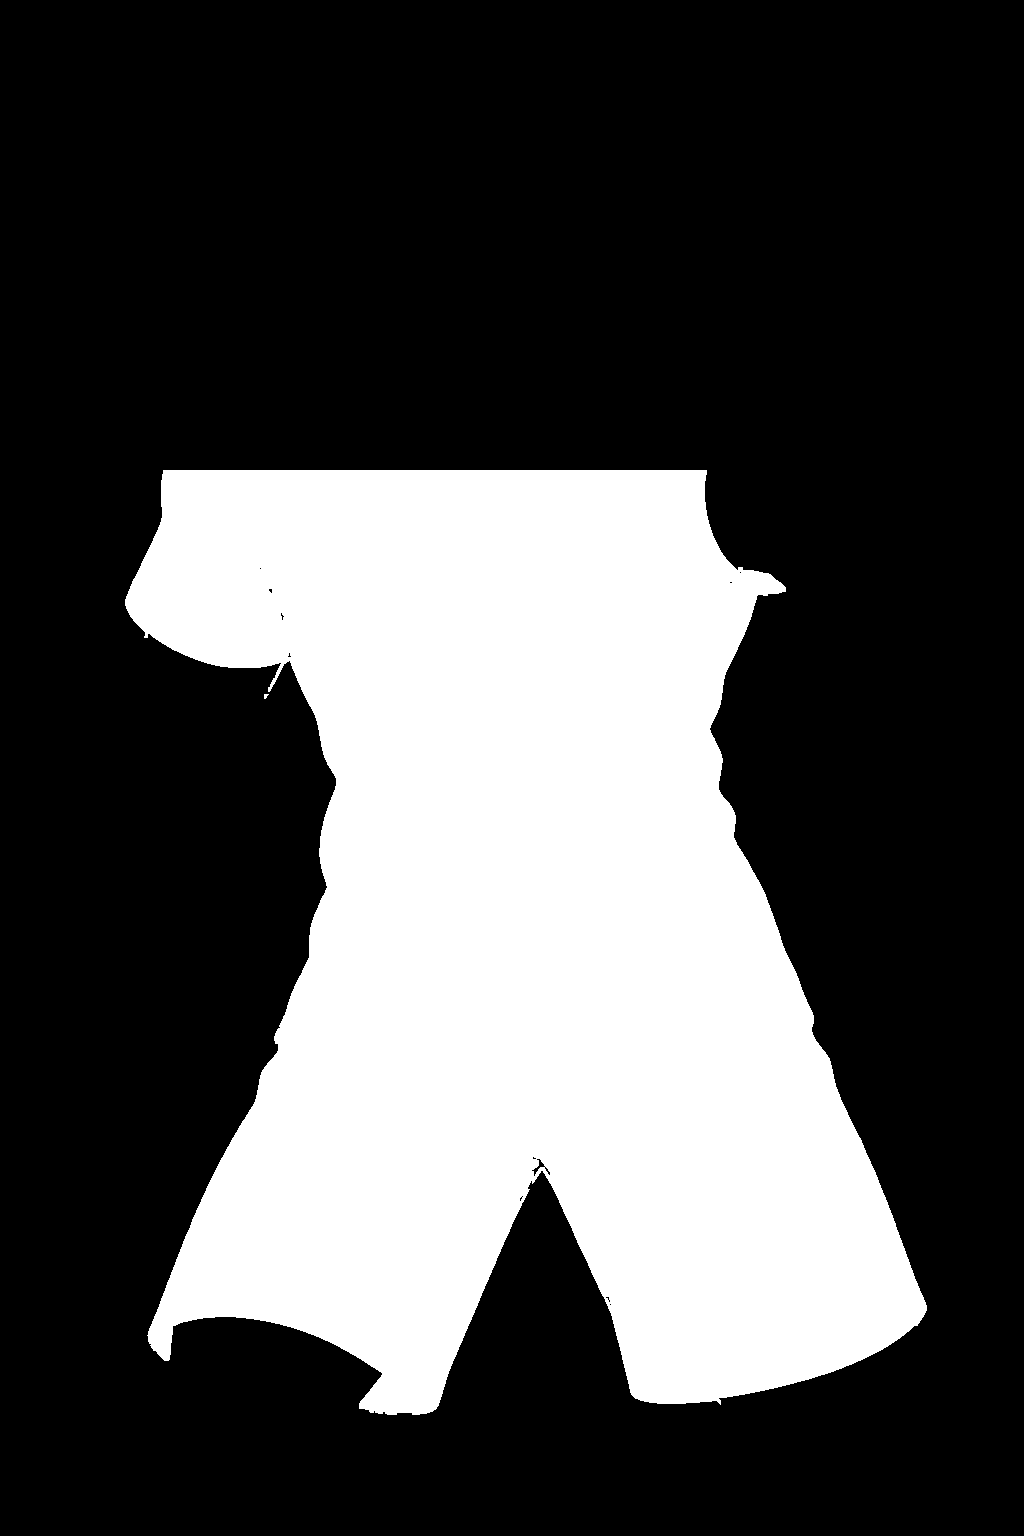
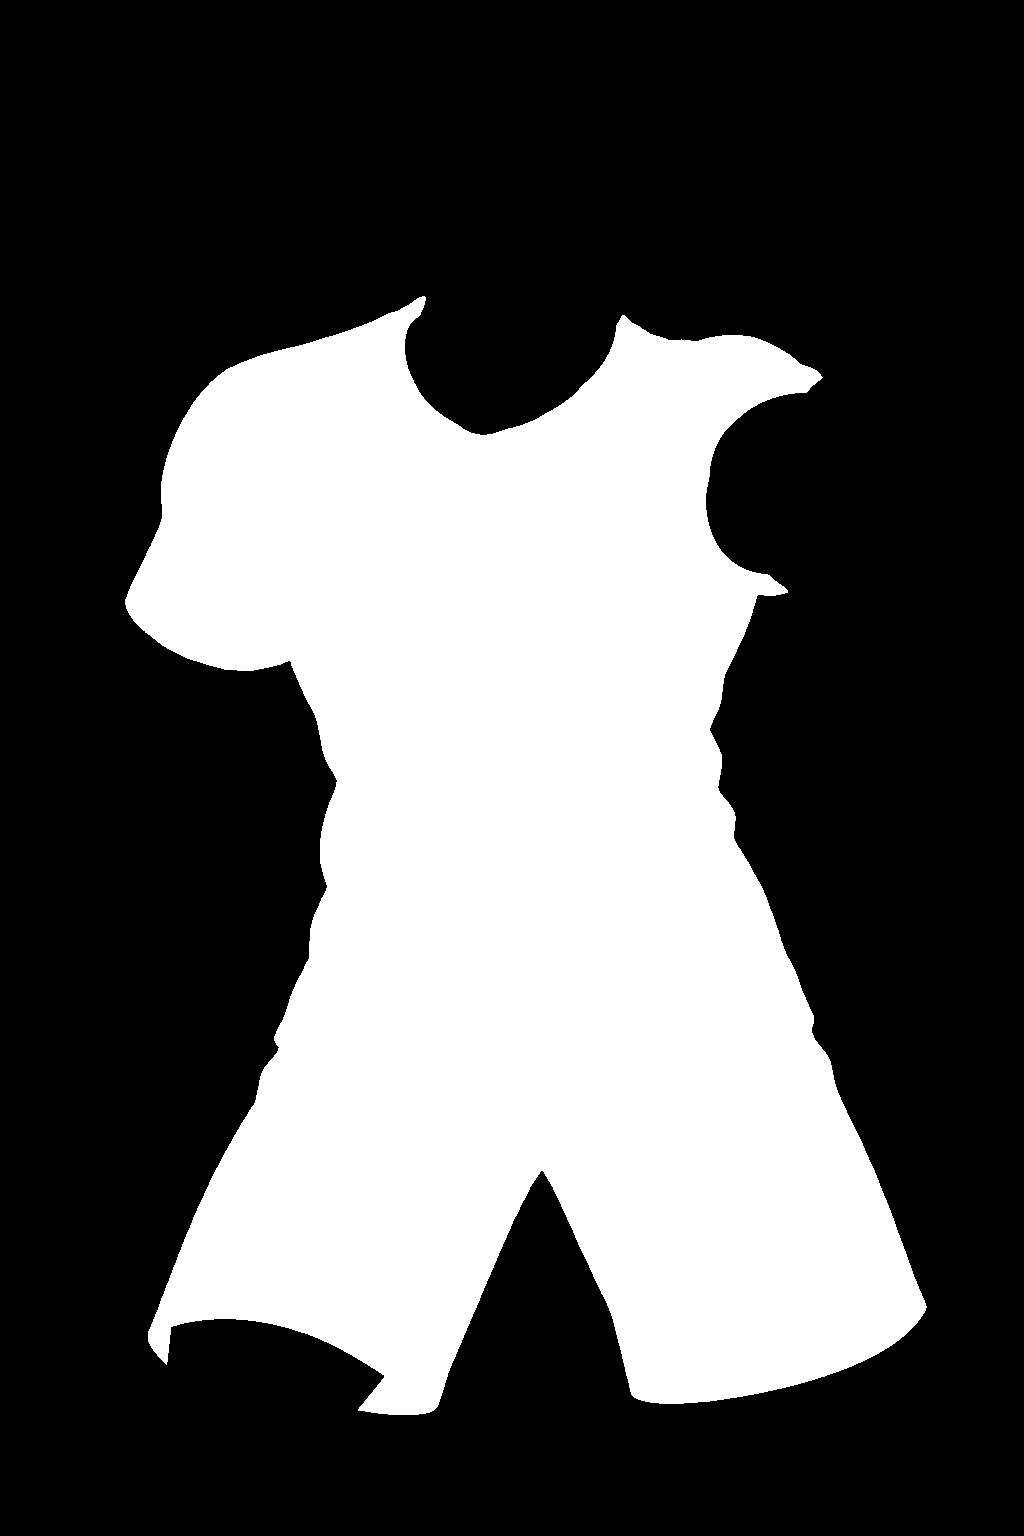
Add aggressive-pose outfit smoke variants and fix full-edit review path.
Approve editor clothing masks, land Barça/Spain needs-review candidates, and stop retrying when geometry+vision already pass without an identity mask.

Changed region(s): [[0.1562, 0.1875, 0.8125, 0.3125]]

diff --git a/scripts/mascot_auto_generate.py b/scripts/mascot_auto_generate.py
@@ -2,7 +2,8 @@
 """Automatic mascot outfit generation via OpenAI Images Edit.
 
 REUSE approved variants. Generate only when missing/stale.
-Final pixels outside the approved clothing mask always come from the original pose.
+Clothing mask guides Images Edit only. Production final is full-edit,
+optionally identity-locked when an approved identity mask exists.
 """
 
 from __future__ import annotations
@@ -772,6 +773,58 @@ def generate_missing_variant(
                     generation_reference_sha256=generation_reference_sha256,
                     consistency_reference_sha256=consistency_reference_sha256,
                 ),
+            }
+
+        # Geometry (+ vision) can pass without an identity mask: keep full-edit as
+        # the candidate final, but require human review (no clothing-mask fallback).
+        vision_ok = skip_vision or bool(vis.get("skipped")) or _vision_allows_auto_approve(
+            vis, skip_vision=skip_vision
+        )
+        if det.get("pass") and vision_ok and identity_img is None:
+            layer.save(layer_dest, format="PNG")  # debug/optional
+            composite.save(composite_dest, format="PNG")
+            full_edit.save(full_dest, format="PNG")
+            visual_label = (
+                "skipped"
+                if (skip_vision or vis.get("skipped"))
+                else ("pass" if vis.get("pass") else "fail")
+            )
+            record = register_variant(
+                pose=pose,
+                outfit=outfit,
+                mask=mask,
+                layer_file=layer_dest,
+                composite_file=composite_dest,
+                status="needs-review",
+                attempts=attempt,
+                qa={
+                    "deterministic": "pass",
+                    "visual": visual_label,
+                    "finalization": "full-edit-geometry-only",
+                    "reason": "identity mask missing/unapproved; human review required",
+                },
+                prompt=prompt,
+                full_edit_sha=sha256_file(full_path),
+                generation_reference_sha256=generation_reference_sha256,
+                consistency_reference_sha256=consistency_reference_sha256,
+            )
+            record["fullEditFile"] = full_dest.relative_to(MASCOT).as_posix()
+            record["finalization"] = "full-edit-geometry-only"
+            data = load_variants()
+            others = [
+                item
+                for item in data.get("variants", [])
+                if not (item.get("basePose") == pose["id"] and item.get("outfit") == outfit["id"])
+            ]
+            others.append(record)
+            others.sort(key=lambda item: item["id"])
+            write_json(VARIANTS_PATH, {"version": 1, "variants": others})
+            return {
+                "result": "NEEDS_REVIEW",
+                "variant": record,
+                "attempts": attempt,
+                "qa": last_qa,
+                "reason": "full-edit passed geometry/vision without identity mask",
             }
 
         if det.get("pass") and (skip_vision or vis.get("skipped")):
